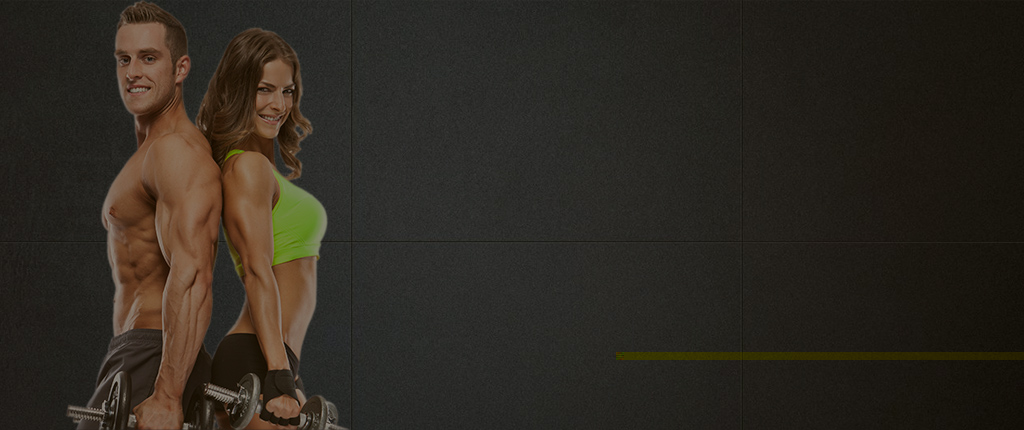
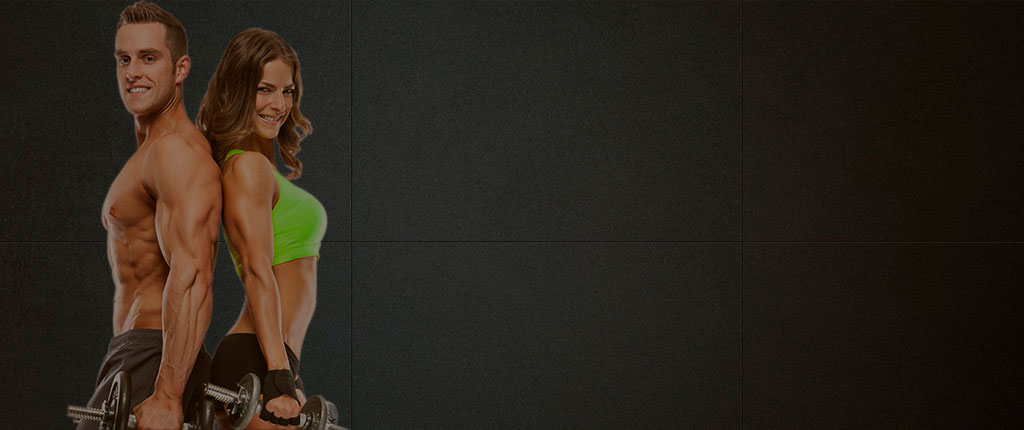
Main block layout with background

Changed region(s): [[0.5938, 0.8163, 1.0, 0.8465], [0.2812, 0.514, 0.3125, 0.5744]]

diff --git a/client/app/main/main.less b/client/app/main/main.less
@@ -1,3 +1,4 @@
-.test{
-    font: 24px 'TruthCYR-Bold';
+.main-block-container{
+  background: url(../../assets/images/intro-bg.jpg) center 0 no-repeat;
+  height: 700px;
 }

diff --git a/client/app/main/main.html b/client/app/main/main.html
@@ -1,0 +1,3 @@
+<div class="container main-block-container">
+  
+</div>
